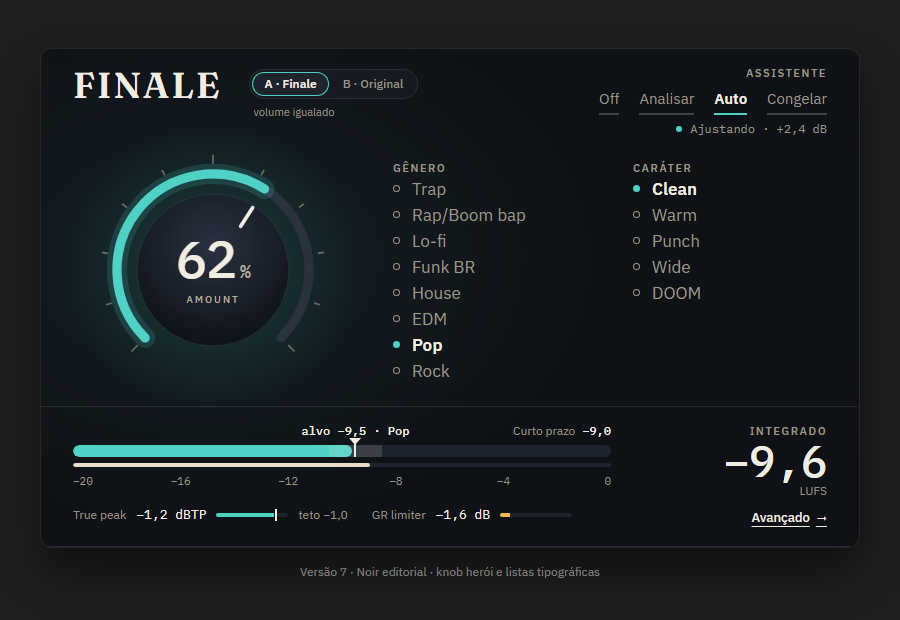
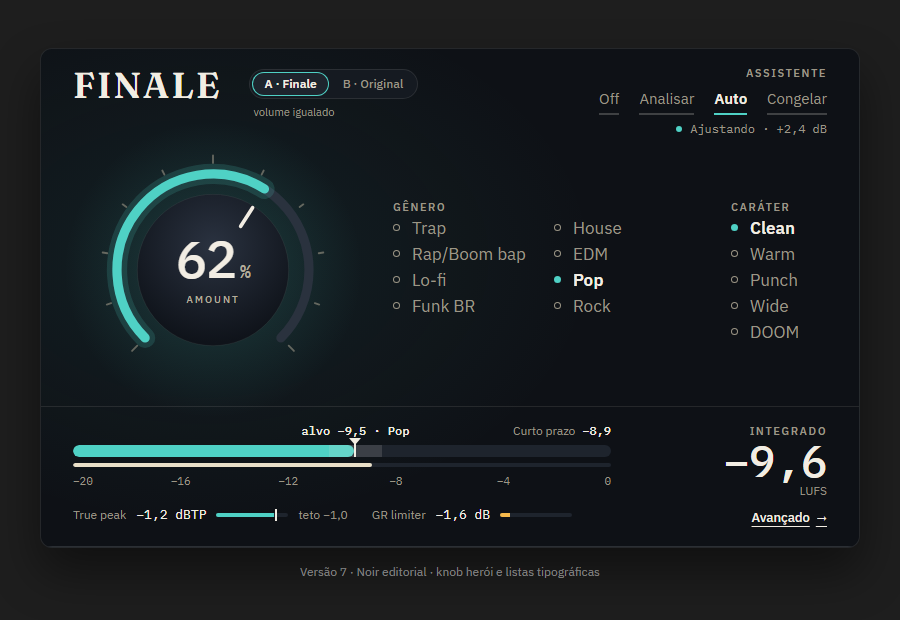
UI: correções da revisão nos protótipos 6 a 8 e galeria da rodada 2

diff --git a/docs/ui/prototipos/v7-noir-editorial.html b/docs/ui/prototipos/v7-noir-editorial.html
@@ -154,6 +154,8 @@ button { font-family: var(--sans); }
   color: var(--text-dim);
 }
 .status i { width: 6px; height: 6px; border-radius: 50%; background: var(--accent); }
+.status[data-v="off"] i { background: transparent; box-shadow: inset 0 0 0 1.5px var(--text-dim); }
+.status[data-v="congelar"] i { background: var(--text-dim); }
 
 /* ---------- Corpo: knob + listas ---------- */
 .body {
@@ -161,6 +163,7 @@ button { font-family: var(--sans); }
   min-height: 0;
   display: grid;
   grid-template-columns: 280px 1fr;
+  grid-template-rows: minmax(0, 1fr);
   column-gap: 40px;
   align-items: center;
   padding: 0 32px;
@@ -218,12 +221,20 @@ button { font-family: var(--sans); }
 .choices {
   align-self: center;
   display: grid;
-  grid-template-columns: 200px 180px;
-  column-gap: 40px;
+  grid-template-columns: 1fr 96px;
+  column-gap: 32px;
   align-items: start;
 }
 .list .kicker { margin-bottom: 8px; }
 .list ul { list-style: none; display: flex; flex-direction: column; }
+/* Gênero em duas colunas de quatro, como no v8, para caber com o Avançado aberto */
+.list .genres {
+  display: grid;
+  grid-template-columns: 1fr 1fr;
+  grid-template-rows: repeat(4, 26px);
+  grid-auto-flow: column;
+  column-gap: 16px;
+}
 .list button {
   display: flex;
   align-items: center;
@@ -378,7 +389,7 @@ button { font-family: var(--sans); }
         <button type="button" role="radio" aria-checked="true" data-v="auto">Auto</button>
         <button type="button" role="radio" aria-checked="false" data-v="congelar">Congelar</button>
       </div>
-      <span class="status" aria-live="polite"><i aria-hidden="true"></i><span id="assistStatus">Ajustando · +2,4 dB</span></span>
+      <span class="status" id="status" data-v="auto" aria-live="polite"><i aria-hidden="true"></i><span id="assistStatus">Ajustando · +2,4 dB</span></span>
     </div>
   </header>
 
@@ -410,7 +421,7 @@ button { font-family: var(--sans); }
     <section class="choices">
       <div class="list">
         <span class="kicker">Gênero</span>
-        <ul role="radiogroup" aria-label="Gênero" data-group="genre">
+        <ul class="genres" role="radiogroup" aria-label="Gênero" data-group="genre">
           <li><button type="button" role="radio" aria-checked="false">Trap</button></li>
           <li><button type="button" role="radio" aria-checked="false">Rap/Boom bap</button></li>
           <li><button type="button" role="radio" aria-checked="false">Lo-fi</button></li>
@@ -587,7 +598,10 @@ button { font-family: var(--sans); }
     if (!b || !group.contains(b)) return;
     const opts = $$('[role="radio"]', group);
     opts.forEach((x) => x.setAttribute('aria-checked', String(x === b)));
-    if (group.dataset.group === 'assist') $('#assistStatus').textContent = ASSIST[b.dataset.v];
+    if (group.dataset.group === 'assist') {
+      $('#assistStatus').textContent = ASSIST[b.dataset.v];
+      $('#status').dataset.v = b.dataset.v;
+    }
     if (group.dataset.group === 'genre') renderGenre(opts.indexOf(b));
   }));
   renderGenre(Math.max(0, $$('[data-group="genre"] [role="radio"]').findIndex((b) => b.getAttribute('aria-checked') === 'true')));

diff --git a/docs/ui/prototipos/index.html b/docs/ui/prototipos/index.html
@@ -49,6 +49,8 @@
   .num { color: var(--accent); font-weight: 600; font-size: 14px; font-variant-numeric: tabular-nums; }
   .name { font-size: 20px; font-weight: 600; margin: 0; }
   .idea { color: var(--muted); margin: 0; font-size: 14px; }
+  .round { max-width: 1240px; margin: 0 auto 48px; }
+  .round-title { font-size: 18px; font-weight: 600; color: var(--muted); margin: 0 0 16px; }
   /* Contêiner no tamanho escalado (900x600 * 0.6 = 540x360). */
   .frame {
     width: 540px;
@@ -90,10 +92,39 @@
 <body>
   <header>
     <h1>Finale · protótipos de interface</h1>
-    <p class="intro">Cinco direções para escolher. Clique em 'abrir em tamanho real' para interagir.</p>
+    <p class="intro">Oito direções em duas rodadas. Clique em 'abrir em tamanho real' para interagir.</p>
   </header>
 
-  <main class="grid">
+  <main>
+  <section class="round">
+    <h2 class="round-title">Rodada 2 · Noir + Papel</h2>
+    <div class="grid">
+    <article class="card">
+      <div class="head"><span class="num">06</span><h2 class="name">Marfim</h2></div>
+      <p class="idea">O layout do Noir no marfim do Papel: a estrutura que você gostou com a luz que você gostou.</p>
+      <div class="frame"><iframe src="v6-marfim.html" title="Marfim" loading="lazy"></iframe></div>
+      <a class="link" href="v6-marfim.html">abrir em tamanho real ↗</a>
+    </article>
+
+    <article class="card">
+      <div class="head"><span class="num">07</span><h2 class="name">Noir editorial</h2></div>
+      <p class="idea">O escuro e o knob com brilho do Noir, organizados como página editorial, com texto em marfim.</p>
+      <div class="frame"><iframe src="v7-noir-editorial.html" title="Noir editorial" loading="lazy"></iframe></div>
+      <a class="link" href="v7-noir-editorial.html">abrir em tamanho real ↗</a>
+    </article>
+
+    <article class="card">
+      <div class="head"><span class="num">08</span><h2 class="name">Dia e Noite</h2></div>
+      <p class="idea">Um layout, dois temas: botão ☀/☾ troca entre marfim e Noir na hora.</p>
+      <div class="frame"><iframe src="v8-dia-noite.html" title="Dia e Noite" loading="lazy"></iframe></div>
+      <a class="link" href="v8-dia-noite.html">abrir em tamanho real ↗</a>
+    </article>
+    </div>
+  </section>
+
+  <section class="round">
+    <h2 class="round-title">Rodada 1</h2>
+    <div class="grid">
     <article class="card">
       <div class="head"><span class="num">01</span><h2 class="name">Noir</h2></div>
       <p class="idea">A mais próxima do Soundgoodizer, mas premium. A tela é quase só o knob.</p>
@@ -128,6 +159,8 @@
       <div class="frame"><iframe src="v5-latao.html" title="Latão" loading="lazy"></iframe></div>
       <a class="link" href="v5-latao.html">abrir em tamanho real ↗</a>
     </article>
+    </div>
+  </section>
   </main>
 <script>
   // Escala cada prévia (iframe de 900 px) para caber na largura do quadro

diff --git a/docs/ui/prototipos/v8-dia-noite.html b/docs/ui/prototipos/v8-dia-noite.html
@@ -102,18 +102,19 @@ button { font-family: var(--sans); }
 .top {
   flex: none;
   height: 64px;
-  display: flex;
+  display: grid;
+  grid-template-columns: 1fr auto 1fr;
   align-items: center;
-  justify-content: space-between;
   padding: 0 24px;
 }
 .wordmark {
+  justify-self: start;
   font: 600 22px/32px var(--serif);
   letter-spacing: 0.24em;
   color: var(--text);
 }
-.assist { display: flex; flex-direction: column; align-items: center; gap: 4px; }
-.top-r { display: flex; flex-direction: column; align-items: flex-end; gap: 4px; }
+.assist { justify-self: center; display: flex; flex-direction: column; align-items: center; gap: 4px; }
+.top-r { justify-self: end; display: flex; flex-direction: column; align-items: flex-end; gap: 4px; }
 .row { display: flex; align-items: center; gap: 8px; }
 .sub { font: 400 11px/16px var(--sans); color: var(--text-dim); }
 
@@ -227,6 +228,8 @@ button { font-family: var(--sans); }
 }
 .num .pct { margin-left: 4px; font-size: calc(var(--knob) * 0.075); color: var(--text-dim); }
 .cap { margin-top: 8px; font: 500 11px/16px var(--sans); letter-spacing: 0.2em; color: var(--text-dim); }
+:root[data-theme="dark"] .cap,
+:root[data-theme="dark"] .num .pct { color: #A3ADBE; }
 
 /* Controles: gênero (lista tipográfica) e caráter (chips) */
 .controls { flex: 1 1 auto; min-width: 0; display: flex; flex-direction: column; justify-content: center; gap: 24px; }
@@ -327,8 +330,9 @@ button { font-family: var(--sans); }
 .st-target {
   position: absolute;
   left: 34px;
-  width: 136px;
-  font: 500 12px/16px var(--sans);
+  right: 0;
+  white-space: nowrap;
+  font: 500 11px/16px var(--sans);
   color: var(--text);
   transform: translateY(-50%);
 }
@@ -404,7 +408,7 @@ button { font-family: var(--sans); }
   cursor: pointer;
 }
 .adv-btn:hover { background: var(--surface-2); }
-.caret { display: inline-block; transition: transform 0.2s ease; }
+.caret { display: inline-block; font-size: 12px; color: var(--text); transition: transform 0.2s ease; }
 .adv-btn[aria-expanded="true"] .caret { transform: rotate(90deg); }
 .hint { font: 400 12px/16px var(--sans); color: var(--text-dim); }
 </style>

diff --git a/docs/ui/prototipos/v6-marfim.html b/docs/ui/prototipos/v6-marfim.html
@@ -135,7 +135,9 @@
     font: 400 12px/16px var(--sans);
     color: var(--text);
   }
-  .status i { width: 6px; height: 6px; border-radius: 50%; background: var(--ok); }
+  .status i { width: 6px; height: 6px; border-radius: 50%; background: var(--accent); }
+  .status[data-v="off"] i { background: transparent; box-shadow: inset 0 0 0 1.5px var(--text-dim); }
+  .status[data-v="congelar"] i { background: var(--text-dim); }
   .sub { height: 16px; font: 400 12px/16px var(--sans); color: var(--text-dim); }
 
   /* Corpo */
@@ -331,7 +333,7 @@
     cursor: pointer;
   }
   .adv-btn:hover { background: var(--surface-2); }
-  .caret { display: inline-block; font-size: 10px; transition: transform 0.2s ease; }
+  .caret { display: inline-block; font-size: 12px; color: var(--text); transition: transform 0.2s ease; }
   .win.adv-open .caret { transform: rotate(90deg); }
   .hint { font: 400 12px/16px var(--sans); color: var(--text-dim); }
 </style>
@@ -349,7 +351,7 @@
           <button type="button" data-v="auto" aria-pressed="true">Auto</button>
           <button type="button" data-v="congelar" aria-pressed="false">Congelar</button>
         </div>
-        <div class="status" aria-live="polite"><i aria-hidden="true"></i><span id="assistStatus">Ajustando · +2,4 dB</span></div>
+        <div class="status" id="status" data-v="auto" aria-live="polite"><i aria-hidden="true"></i><span id="assistStatus">Ajustando · +2,4 dB</span></div>
       </div>
       <div class="block">
         <div class="seg" role="group" aria-label="Comparação A/B">
@@ -554,7 +556,10 @@
     if (!b || !group.contains(b)) return;
     const buttons = $$('button', group);
     buttons.forEach((x) => x.setAttribute('aria-pressed', String(x === b)));
-    if (group.id === 'assistSeg') $('#assistStatus').textContent = ASSIST[b.dataset.v];
+    if (group.id === 'assistSeg') {
+      $('#assistStatus').textContent = ASSIST[b.dataset.v];
+      $('#status').dataset.v = b.dataset.v;
+    }
     if (group.getAttribute('aria-label') === 'Gênero') renderGenre(buttons.indexOf(b));
   }));
 
